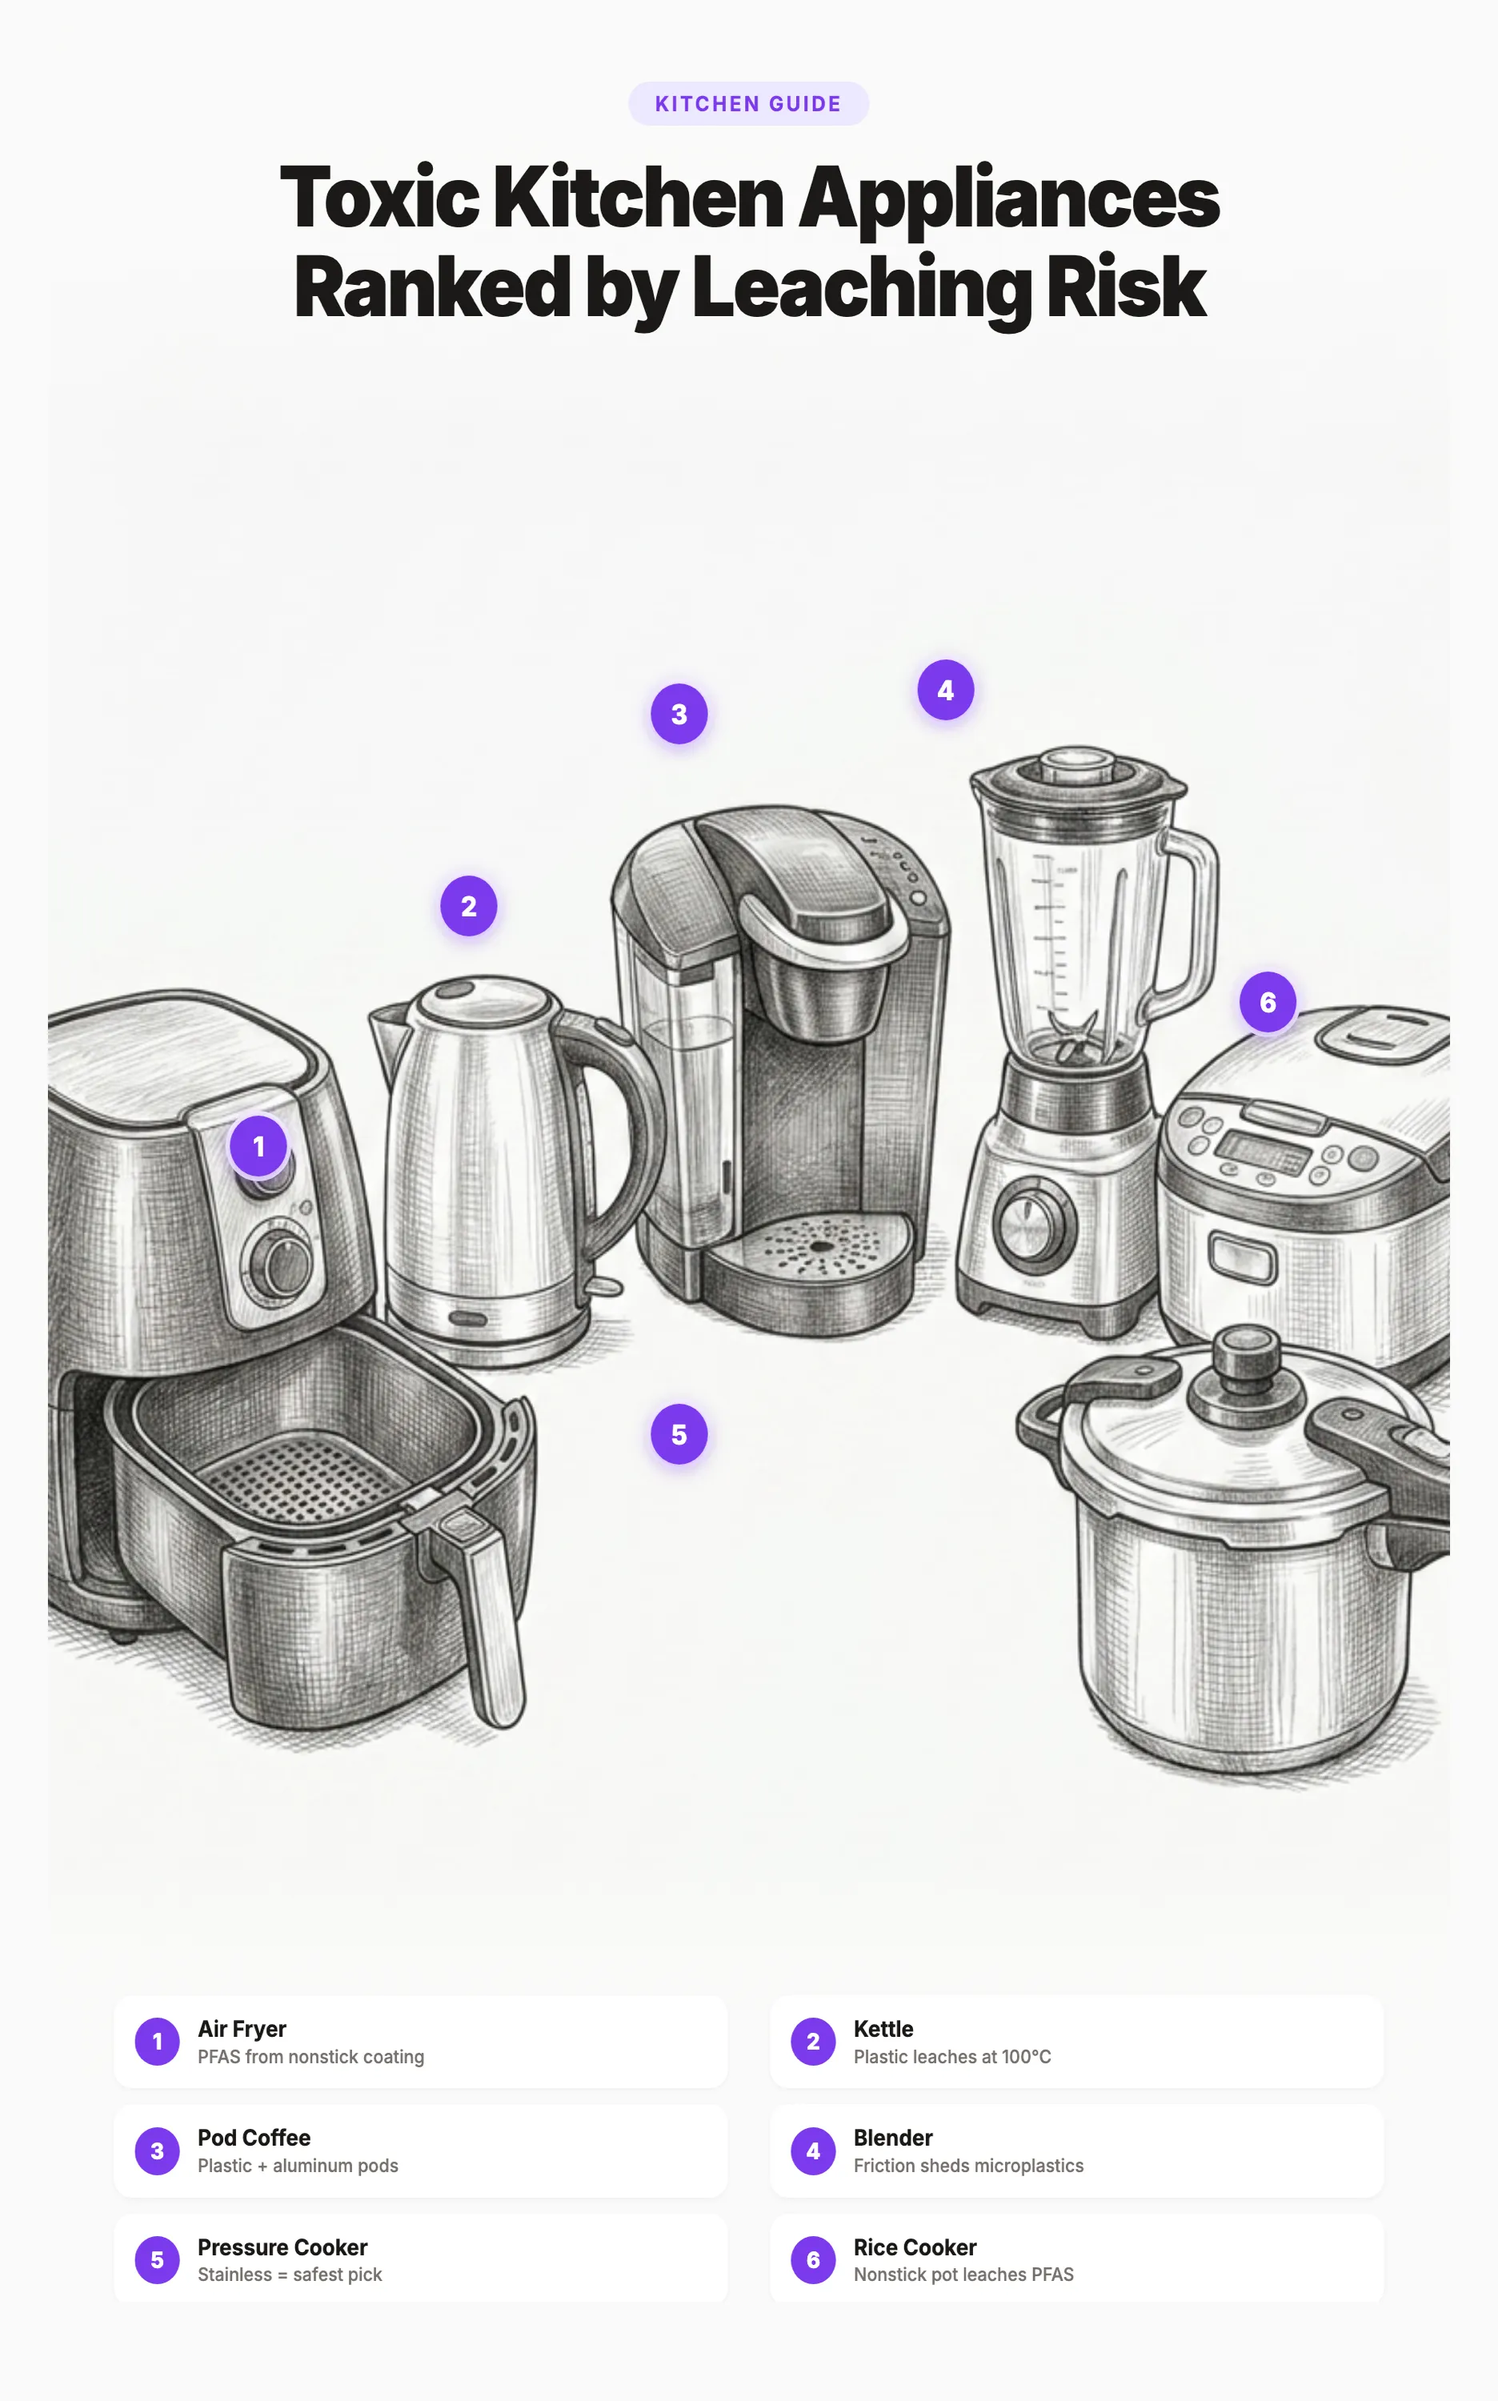
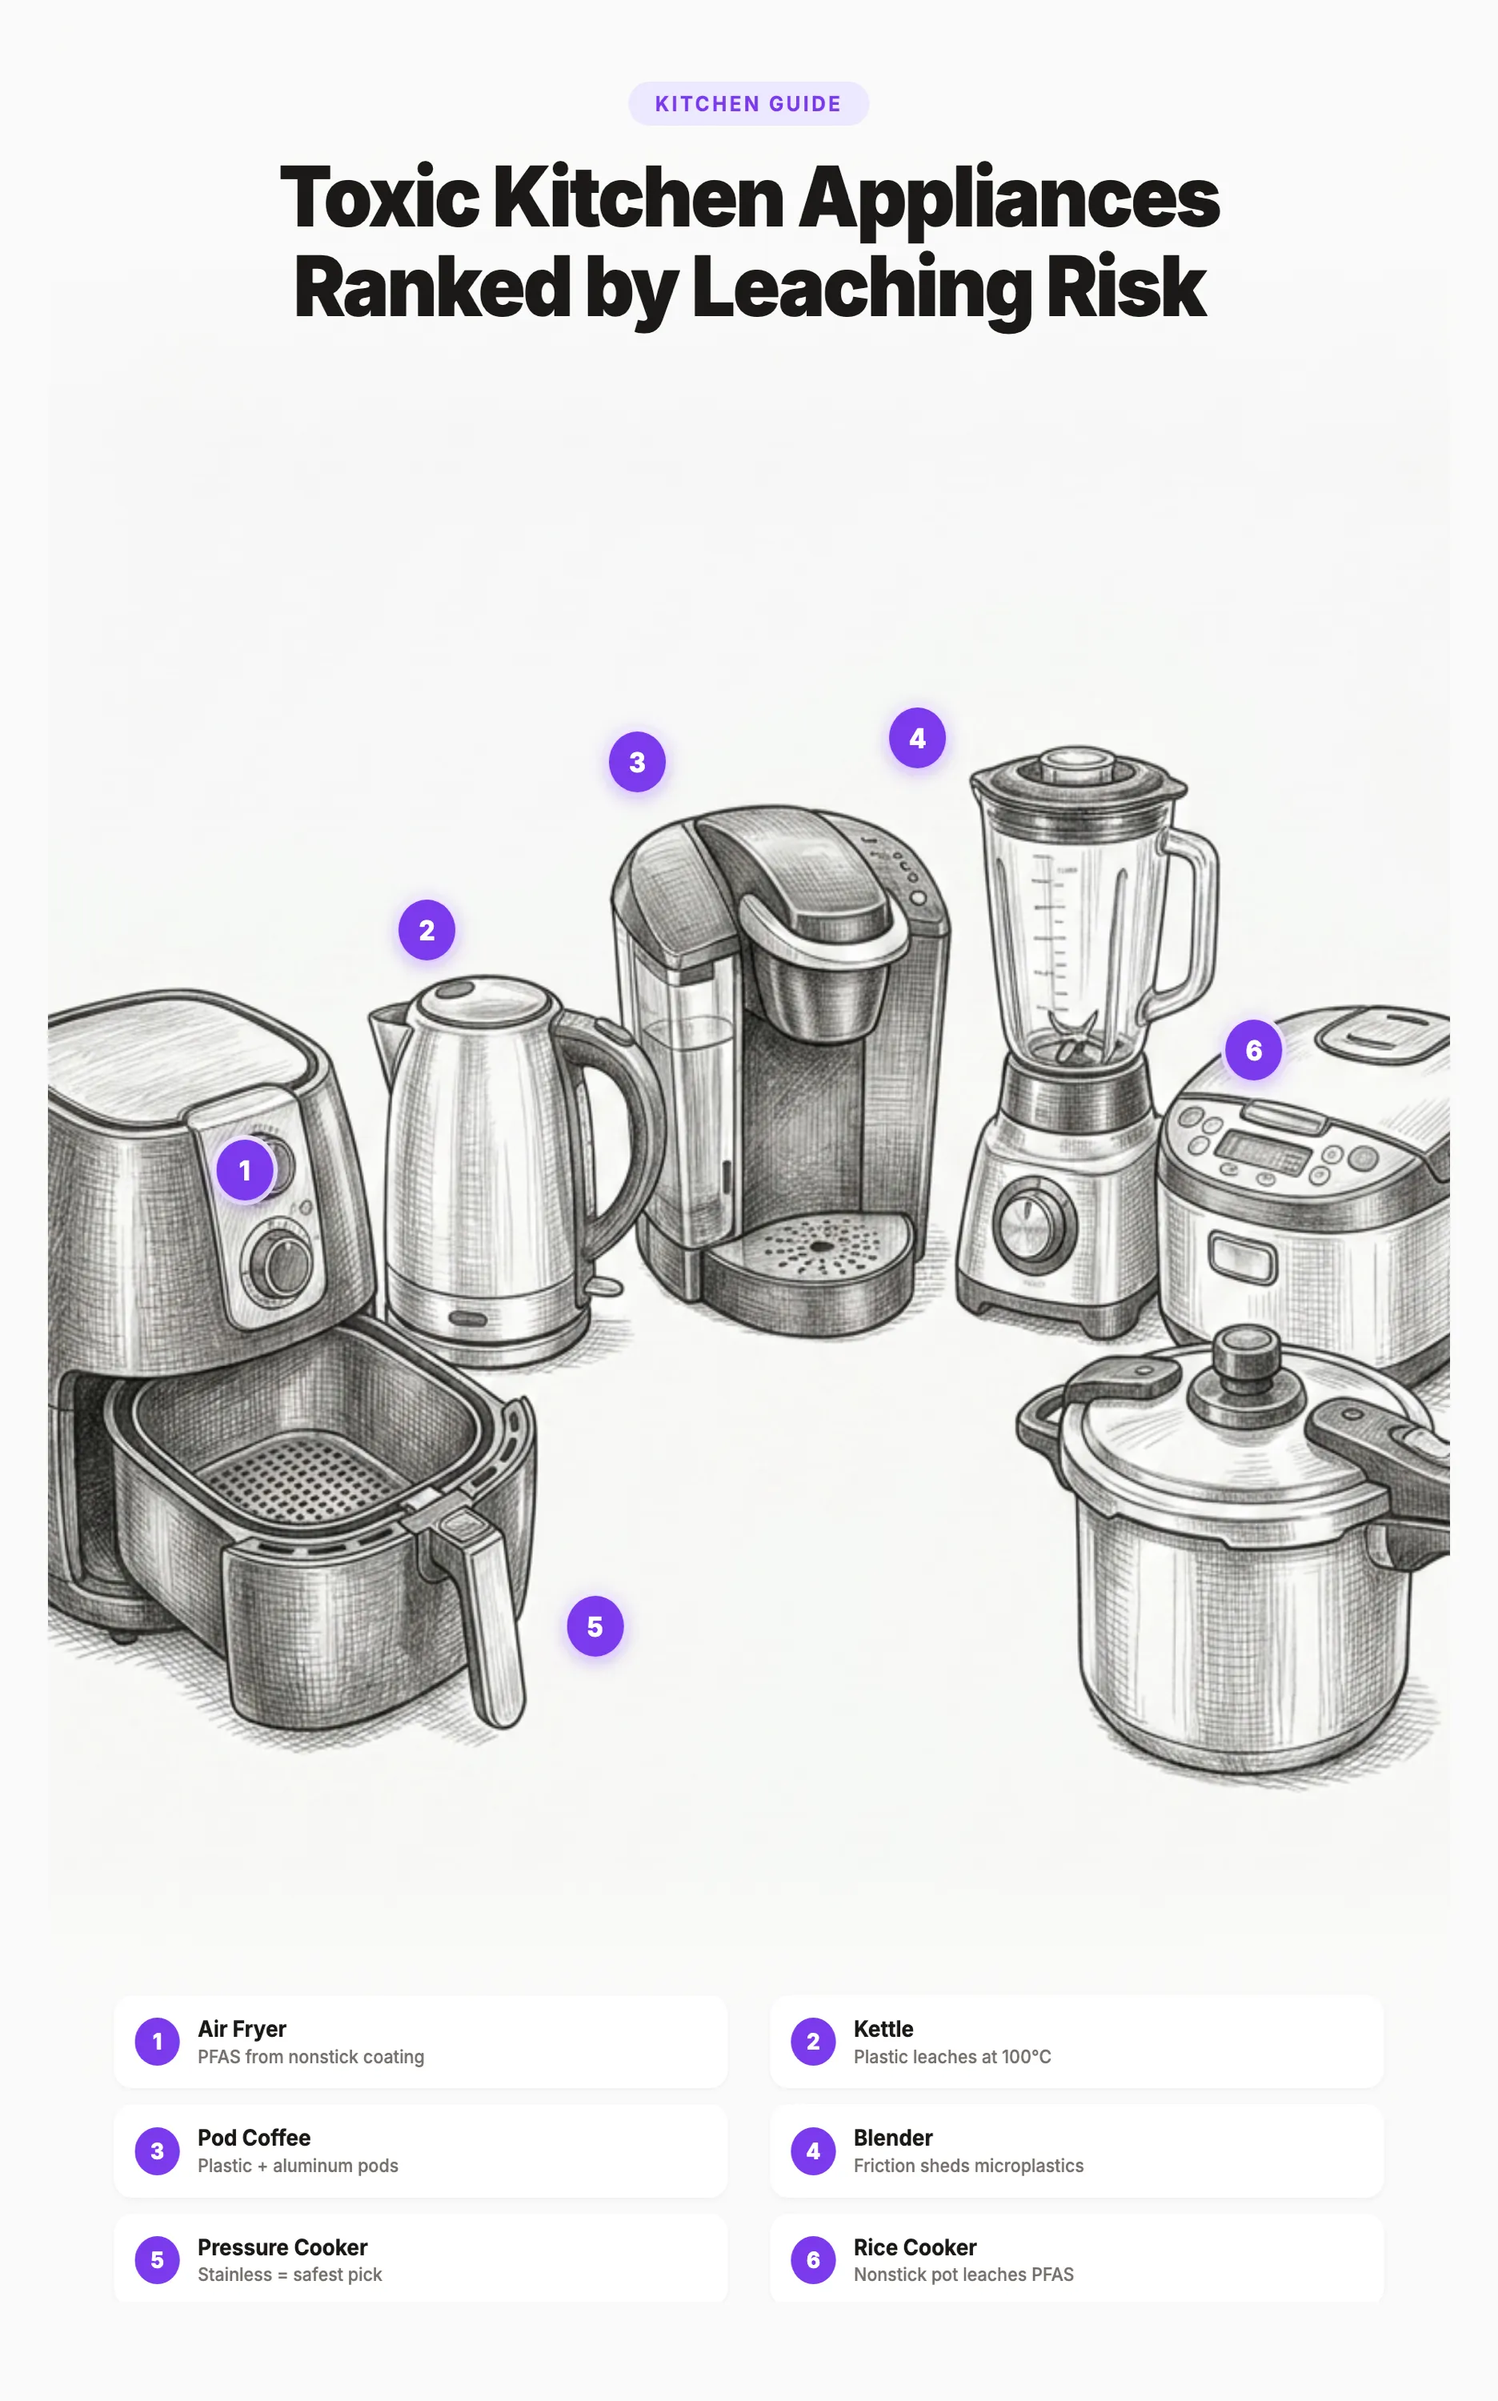
Fix badge 5 position onto pressure cooker body

diff --git a/images/toxic-appliances-swap-pinterest.html b/images/toxic-appliances-swap-pinterest.html
@@ -88,12 +88,12 @@
       z-index: 3;
     }
 
-    .badge-1 { left: 13%; top: 46%; }
-    .badge-2 { left: 28%; top: 36%; }
-    .badge-3 { left: 43%; top: 28%; }
-    .badge-4 { left: 62%; top: 27%; }
-    .badge-5 { left: 43%; top: 58%; }
-    .badge-6 { left: 85%; top: 40%; }
+    .badge-1 { left: 12%; top: 47%; }
+    .badge-2 { left: 25%; top: 37%; }
+    .badge-3 { left: 40%; top: 30%; }
+    .badge-4 { left: 60%; top: 29%; }
+    .badge-5 { left: 37%; top: 66%; }
+    .badge-6 { left: 84%; top: 42%; }
 
     /* ─── BOTTOM: swap legend card ─── */
     .bottom-card {
